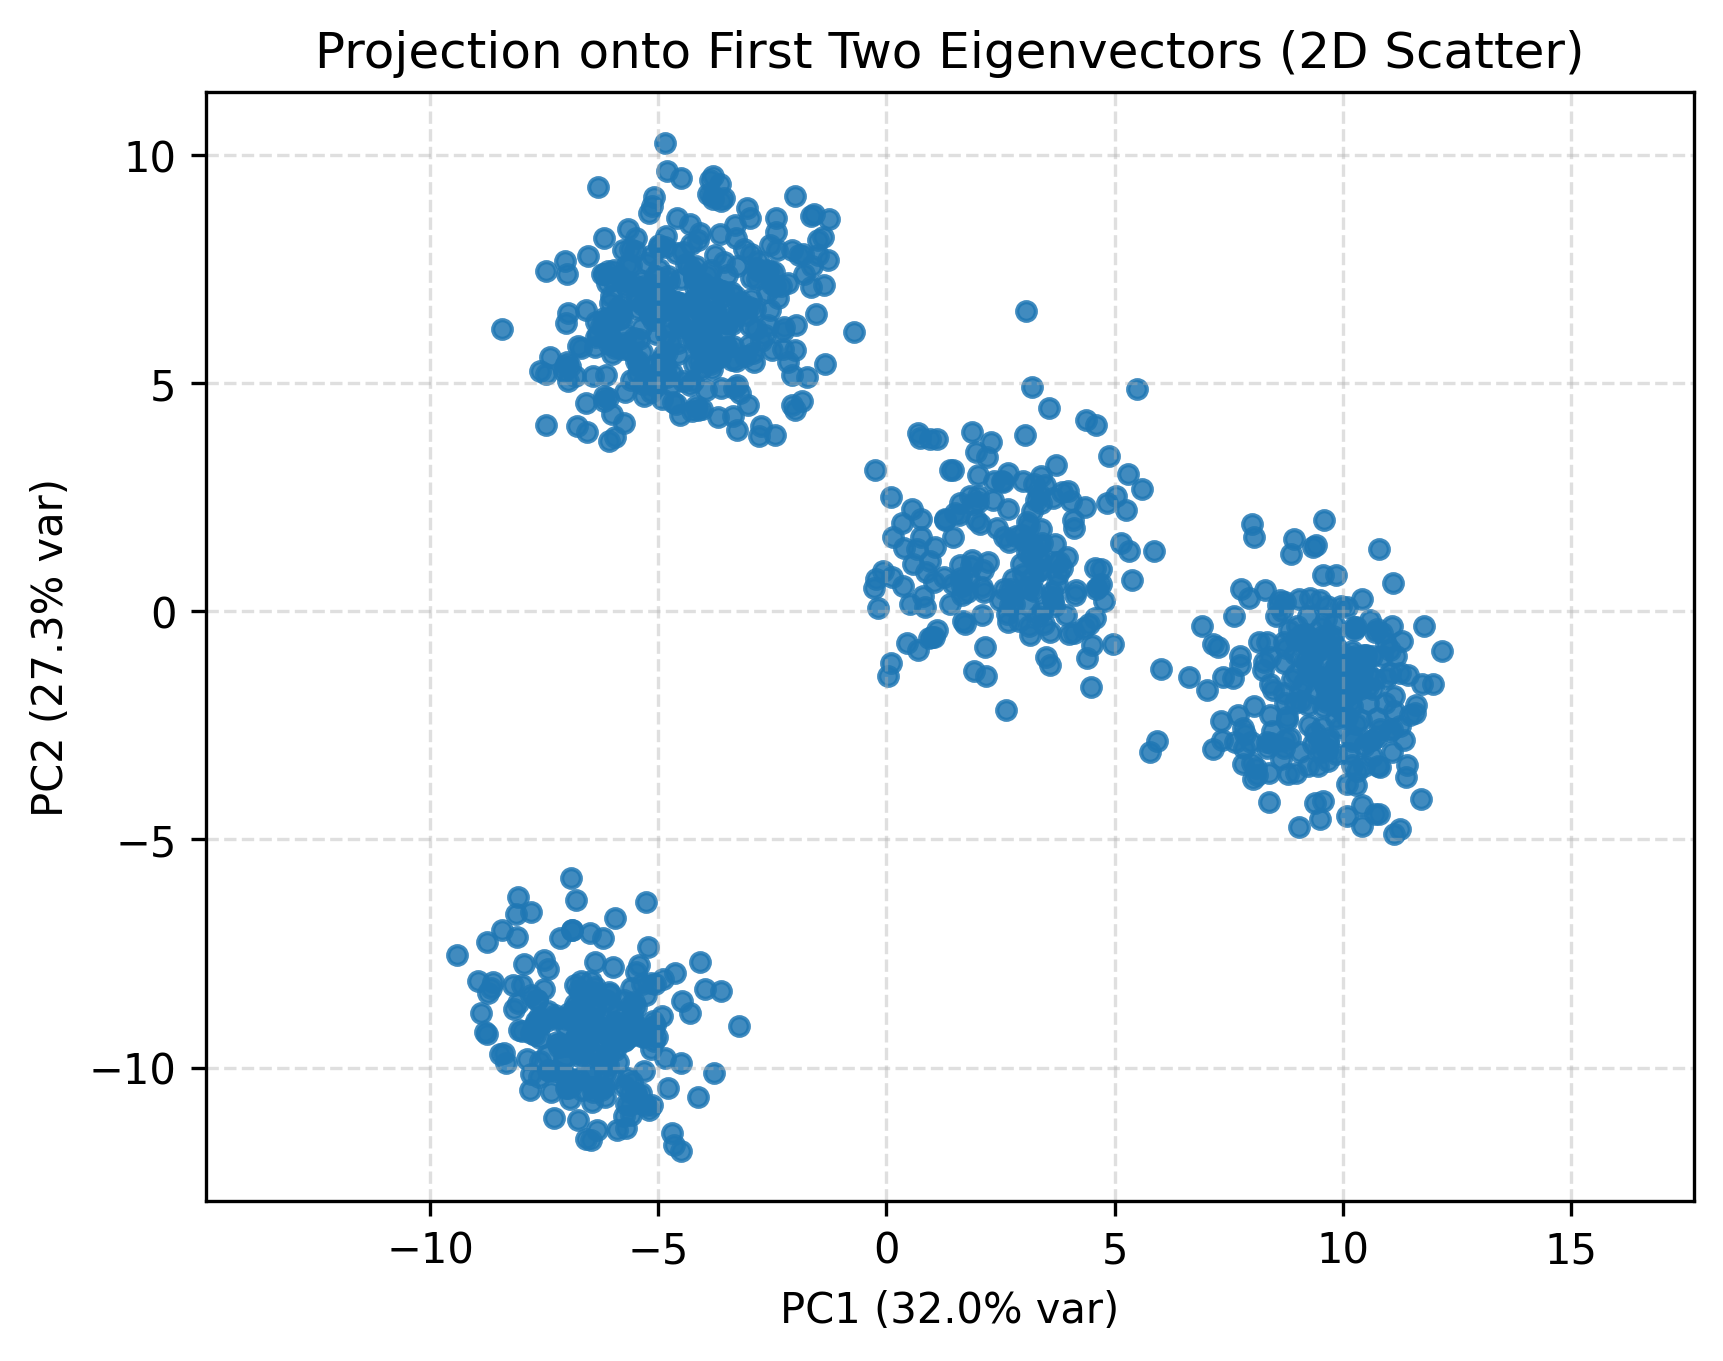
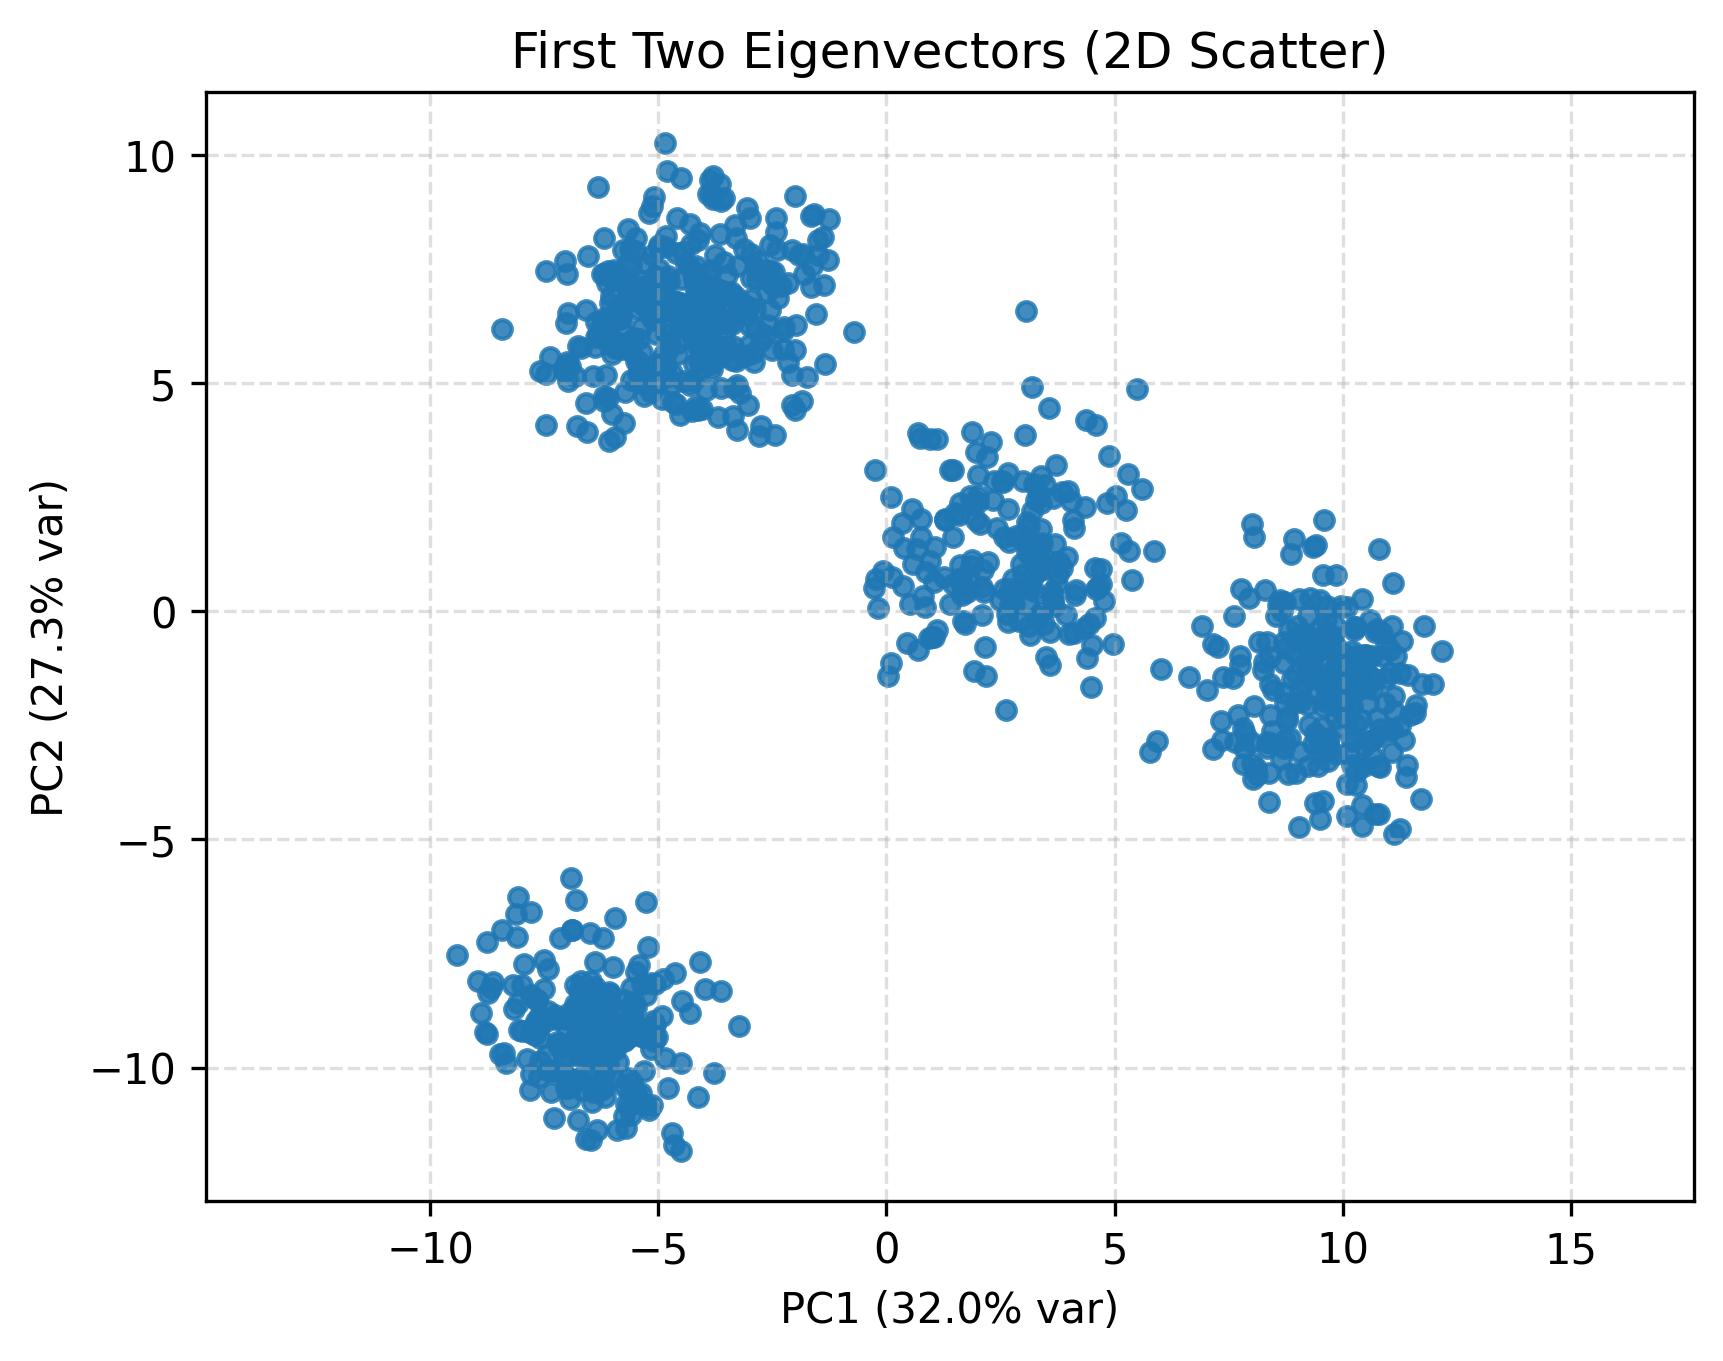
completing documentation

Changed region(s): [[0.1846, 0.0, 0.9228, 0.0617]]

diff --git a/HW_07_Chang_Ethan_main.py b/HW_07_Chang_Ethan_main.py
@@ -72,34 +72,47 @@ def main():
     #####################################################################################################
 
     # First two eigenvectors that prints 1x20 rows
+    # This vector has a shape of (2, 20) and each row is one eigenvector
     first_two_vec = sorted_eigvecs[:, :2].T
     print("First two eigenvectors (rows):")
     print(first_two_vec)
 
-    X = df.values # Original data set excluding GuestID
+    X = df.values # Original data set excluding GuestID (converts DataFrame to NumPy array)
 
     X_centered = X - X.mean(axis=0, keepdims=True)   # Mean-centered version of X (new_data = data - all_means)
 
     top2_vecs = sorted_eigvecs[:, :2] # First two eigenvectors, each column = one eigenvector
 
+    # projected 2D has (number of samples, 2)
     projected_2d = np.dot(X_centered, top2_vecs) # 2D data, each row is one sample's coordinates in PC1 to PC2 space
 
-    # Eigen value variances
+    #####################################################################################################
+    # 2D Scatter Plot of data in PCA Space
+    #####################################################################################################
+
+    # Eigenvalue variances ratio for first and second componenets
     evr1 = sorted_eigvals[0] / sorted_eigvals.sum()
     evr2 = sorted_eigvals[1] / sorted_eigvals.sum()
 
-    # 2D Scatter Plot of Clusters
+    # 2D Scatter Plot of PCA
     plt.figure()
+
+    # Scatter plot of projected points in 2D PCA space
     plt.scatter(projected_2d[:, 0], projected_2d[:, 1], s=20, alpha=0.85)
-    plt.xlabel(f'PC1 ({evr1:.1%} var)')
-    plt.ylabel(f'PC2 ({evr2:.1%} var)')
-    plt.title('Projection onto First Two Eigenvectors (2D Scatter)')
+
+    plt.xlabel(f'PC1 ({evr1:.1%} var)') # Label PC1 by variance percentage
+    plt.ylabel(f'PC2 ({evr2:.1%} var)') # Label PC2 by variance percentage
+    plt.title('First Two Eigenvectors (2D Scatter)')
     plt.grid(True, linestyle='--', alpha=0.4)
     plt.axis('equal')
     plt.savefig('pca_scatter.png', dpi=300, bbox_inches='tight')
 
+    #####################################################################################################
+    # Loadings for PC1 and PC2
+    #####################################################################################################
 
     # Quick attribute importance for each PC: largest |loading|
+    # Create a dataframe (PC1, PC2) and columns are the 20 features
     loadings_df = pd.DataFrame(first_two_vec, 
                                columns=feature_names, 
                                index=["PC1","PC2"])
@@ -107,26 +120,33 @@ def main():
     # Outputs the two vectors
     # PC1 is dominated by horror, classics, non-fiction, romance, and games
     # PC2 is dominated by baby toddler, teen, self imporvement, games, and non-fiction
+    # Print five features with largest absolute loading
     for pc in ["PC1","PC2"]:
         top = loadings_df.loc[pc].abs().sort_values(ascending=False)
         print(f"\nTop 5 attributes for {pc} by |loading|:")
         print(top.head(5))
 
-
-    #vector_matrix = pd.DataFrame(first_two_vec)
+    
+    #####################################################################################################
+    # K-Means Clustering in 2-D PCA Space
+    #####################################################################################################
 
     k = 4 # There are 4 clusters coming from the scatter plot of 2D data
 
+    # Create KMeans object with k clusters with fixed random state
     kmeans = KMeans(n_clusters=k, random_state=42)
 
+    # Fit k-means to 2-D data and get cluster labels for each sample
     labels = kmeans.fit_predict(projected_2d)
 
 
     plt.figure(figsize=(7, 6))
 
+    # K-Means Figure For Cluster Plot
     plt.scatter(projected_2d[:, 0], projected_2d[:, 1],
                 c=labels, cmap='viridis', s=30, alpha=0.8, edgecolors='k')
     
+    # Plot K-Mean cluster centers in 2-D PCA space by using red X markers
     plt.scatter(kmeans.cluster_centers_[:, 0], kmeans.cluster_centers_[:, 1],
                 c='red', marker='X', s=200, label='Cluster Centers')
     
@@ -137,27 +157,31 @@ def main():
     plt.grid(True, linestyle='--', alpha=0.5)
     plt.savefig(f'kmeans_clusters_k{k}.png', dpi=300, bbox_inches='tight')
 
-    ################################################################################################
-
+    #####################################################################################################
+    # Print Cluster Centers In PCA Space
+    #####################################################################################################
     centers = kmeans.cluster_centers_
 
     print("\nCluster Centers (in PCA 2D space):")
 
+    # Loop through each cluster center and print PC1 and PC2 coordinates
     for i, c in enumerate(centers):
         print(f"Cluster {i}: PC1 = {c[0]:.4f}, PC2 = {c[1]:.4f}")
 
 
-    ################################################################################################
+    #####################################################################################################
+    # Re-project cluster centers back to orginal feature space
+    #####################################################################################################
 
-    # Re-Projection
-
+    # Re-Projection: Multiply 2-D centers by top2_vecs so it equals into 4 x 20
     reprojected = np.dot(centers, top2_vecs.T)   # shape (4, 20)
 
-    # Put results into a readable DataFrame
-    reproj_df = pd.DataFrame(reprojected, columns=feature_names)
-    print("\nReprojected cluster centers back to original feature space:")
-    print(reproj_df.round(3))
+    # Put reprojected cluster centers into the data frame
+    reproj_df = pd.DataFrame(reprojected.round(), columns=feature_names)
 
+    print("\nReprojected cluster centers back to original feature space:")
+
+    # Save reprojected cluster centers as CSV
     reproj_df.to_csv("reprojected_cluster_centers.csv", index=False)
 
 if __name__ == "__main__":
